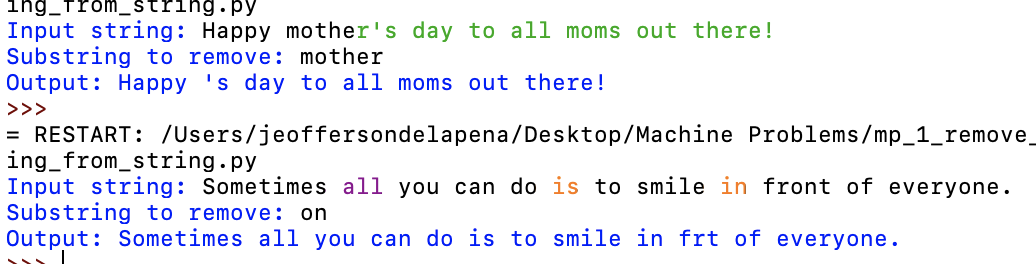
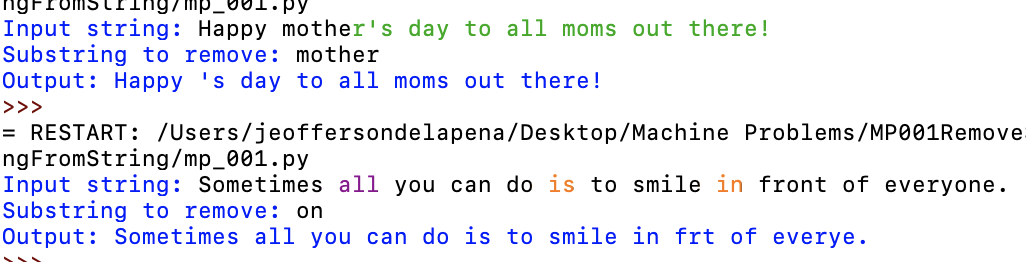
mp1 removes ALL substrings

diff --git a/MP001RemoveSubstringFromString/mp_001.py b/MP001RemoveSubstringFromString/mp_001.py
@@ -1,27 +1,39 @@
-input_string = original_input_string = input("Input string: ")
+input_string = input("Input string: ")
 substring_to_remove = input("Substring to remove: ")
 
-input_string_length = 0
-for i in input_string:
-    input_string_length += 1
+output_string = ""
 
 substring_to_remove_length = 0
 for i in substring_to_remove:
     substring_to_remove_length += 1
 
-did_match = False
-index_where_they_matched = 0
+should_repeat = True
 
-for i in range(0, input_string_length - (substring_to_remove_length - 1)):
-    if input_string[0:substring_to_remove_length] == substring_to_remove:
-        did_match = True
-        index_where_they_matched = i
-        break
-    input_string = input_string[1:]
+while should_repeat:
+    should_repeat = False
+
+    original_input_string = input_string
+    input_string_length = 0
+    for i in input_string:
+        input_string_length += 1
+    
+    index_where_they_matched = 0
+
+    for i in range(0, input_string_length - (substring_to_remove_length - 1)):
+        if input_string[0:substring_to_remove_length] == substring_to_remove:
+            should_repeat = True
+            index_where_they_matched = i
+            break
         
-if not did_match:
-    print("Output:", original_input_string)
-else:
-    first_part = original_input_string[0:index_where_they_matched]
-    last_part = original_input_string[index_where_they_matched + substring_to_remove_length:]
-    print("Output:", first_part + last_part)
+        input_string = input_string[1:]
+
+    if not should_repeat:
+        input_string = original_input_string
+        break
+    else:
+        first_part = original_input_string[0:index_where_they_matched]
+        last_part = original_input_string[index_where_they_matched + substring_to_remove_length:]
+        output_string = first_part + last_part
+        input_string = output_string
+
+print("Output:", input_string)
